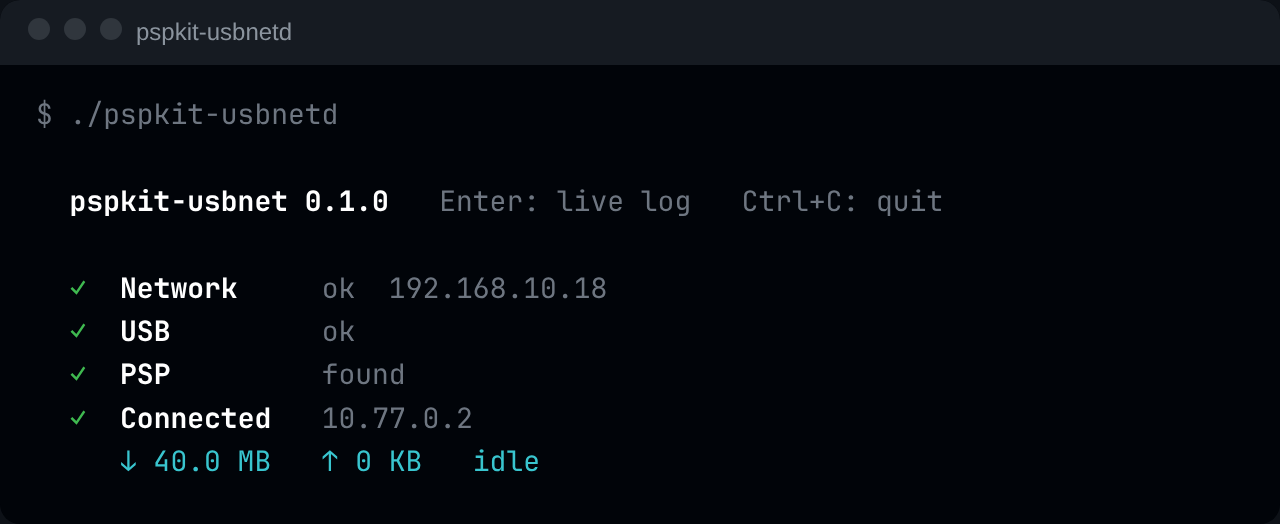
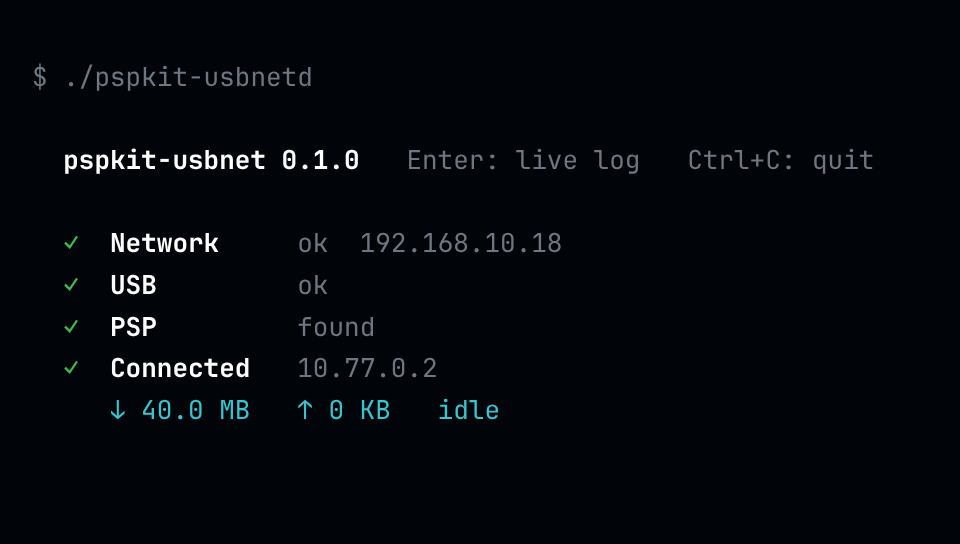
README: the two pictures side by side, the gateway's at the PSP screen's size

diff --git a/README.md b/README.md
@@ -8,13 +8,9 @@
 - 🛠 For developers: runs **beside PSPLink** on the same cable
 - ✅ Works on the **PSP Street** (E1000)
 
-**PSP**
-
-<img src="assets/hi-speed-usb.png" width="480" alt="The PSP's connection list with Hi-Speed USB">
-
-**Gateway** for Linux, macOS and Windows
-
-<img src="assets/pc-app.png" width="480" alt="The gateway with a PSP connected">
+| PSP | Gateway for Linux, macOS and Windows |
+|---|---|
+| <img src="assets/hi-speed-usb.png" width="400" alt="The PSP's connection list with Hi-Speed USB"> | <img src="assets/pc-app.png" width="400" alt="The gateway with a PSP connected"> |
 
 ## 🚀 Get started
 
